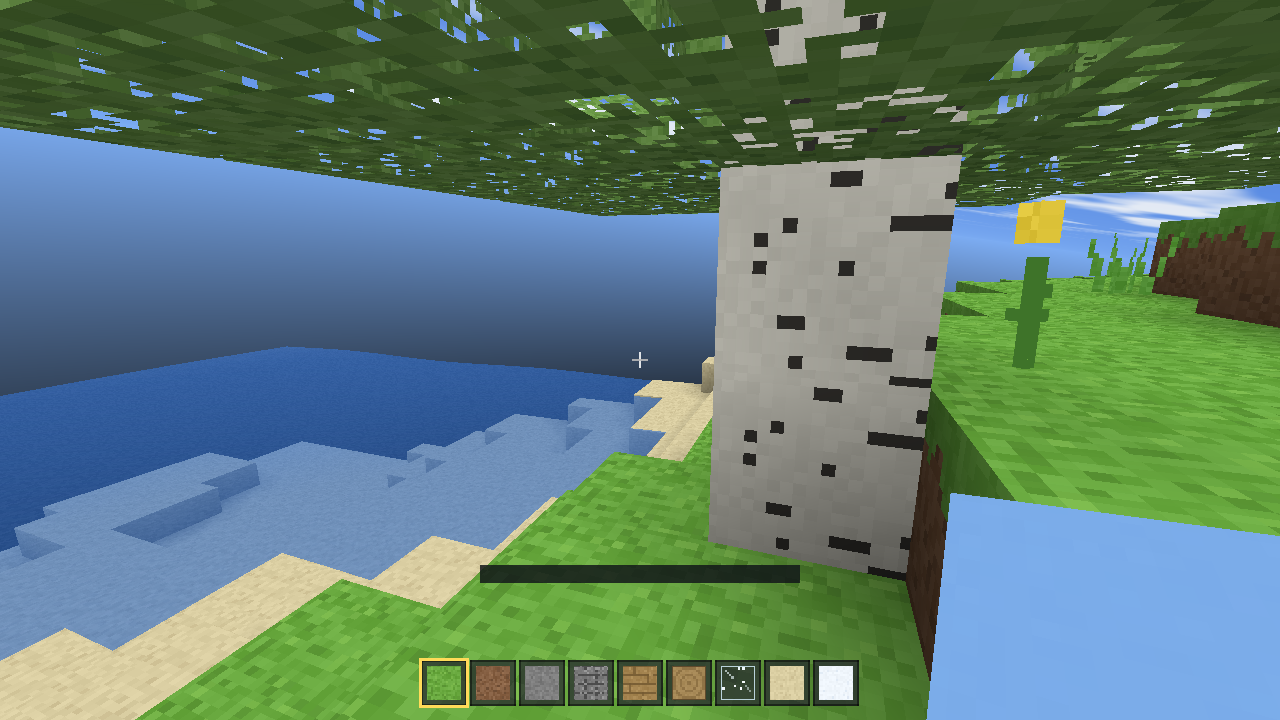
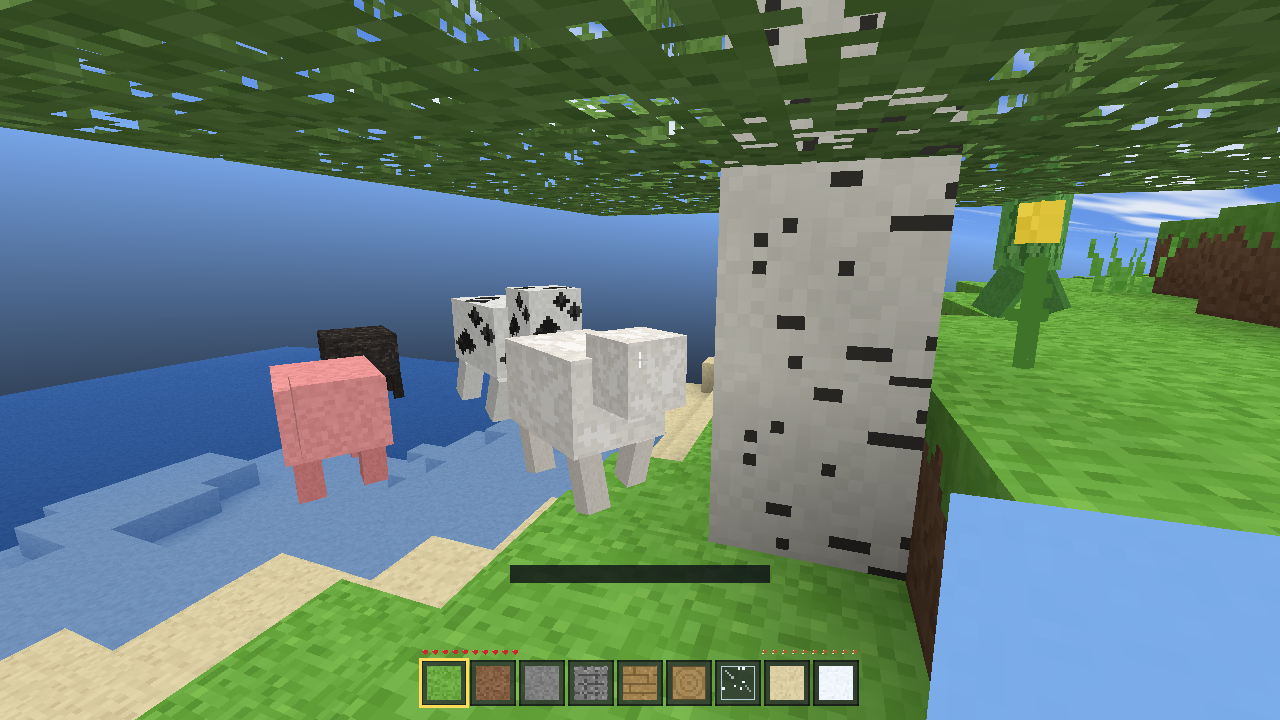
Mob heads use their own skin tile so faces read clearly

diff --git a/crates/voxel/src/mob.rs b/crates/voxel/src/mob.rs
@@ -582,6 +582,7 @@ fn quadruped(out: &mut Vec<Vertex>, mob: &Mob, tint: f32, swing: f32, p: &Propor
     let body_tile = tb;
     let face_tile = tb + 1;
     let limb_tile = tb + 2;
+    let head_tile = tb + 3;
 
     // body
     push_box(
@@ -600,7 +601,7 @@ fn quadruped(out: &mut Vec<Vertex>, mob: &Mob, tint: f32, swing: f32, p: &Propor
         base,
         Vec3::new(0.0, head_y, p.head_z),
         p.head,
-        body_tile,
+        head_tile,
         tint,
     );
     push_front(
@@ -690,8 +691,8 @@ fn sheep_parts() -> Proportions {
         body: Vec3::new(0.7, 0.6, 0.95),
         body_y: 0.7,
         head: Vec3::new(0.42, 0.42, 0.42),
-        head_y: 0.92,
-        head_z: 0.62,
+        head_y: 1.02,
+        head_z: 0.66,
         leg_h: 0.38,
         leg_w: 0.16,
         leg_gap: 0.22,
